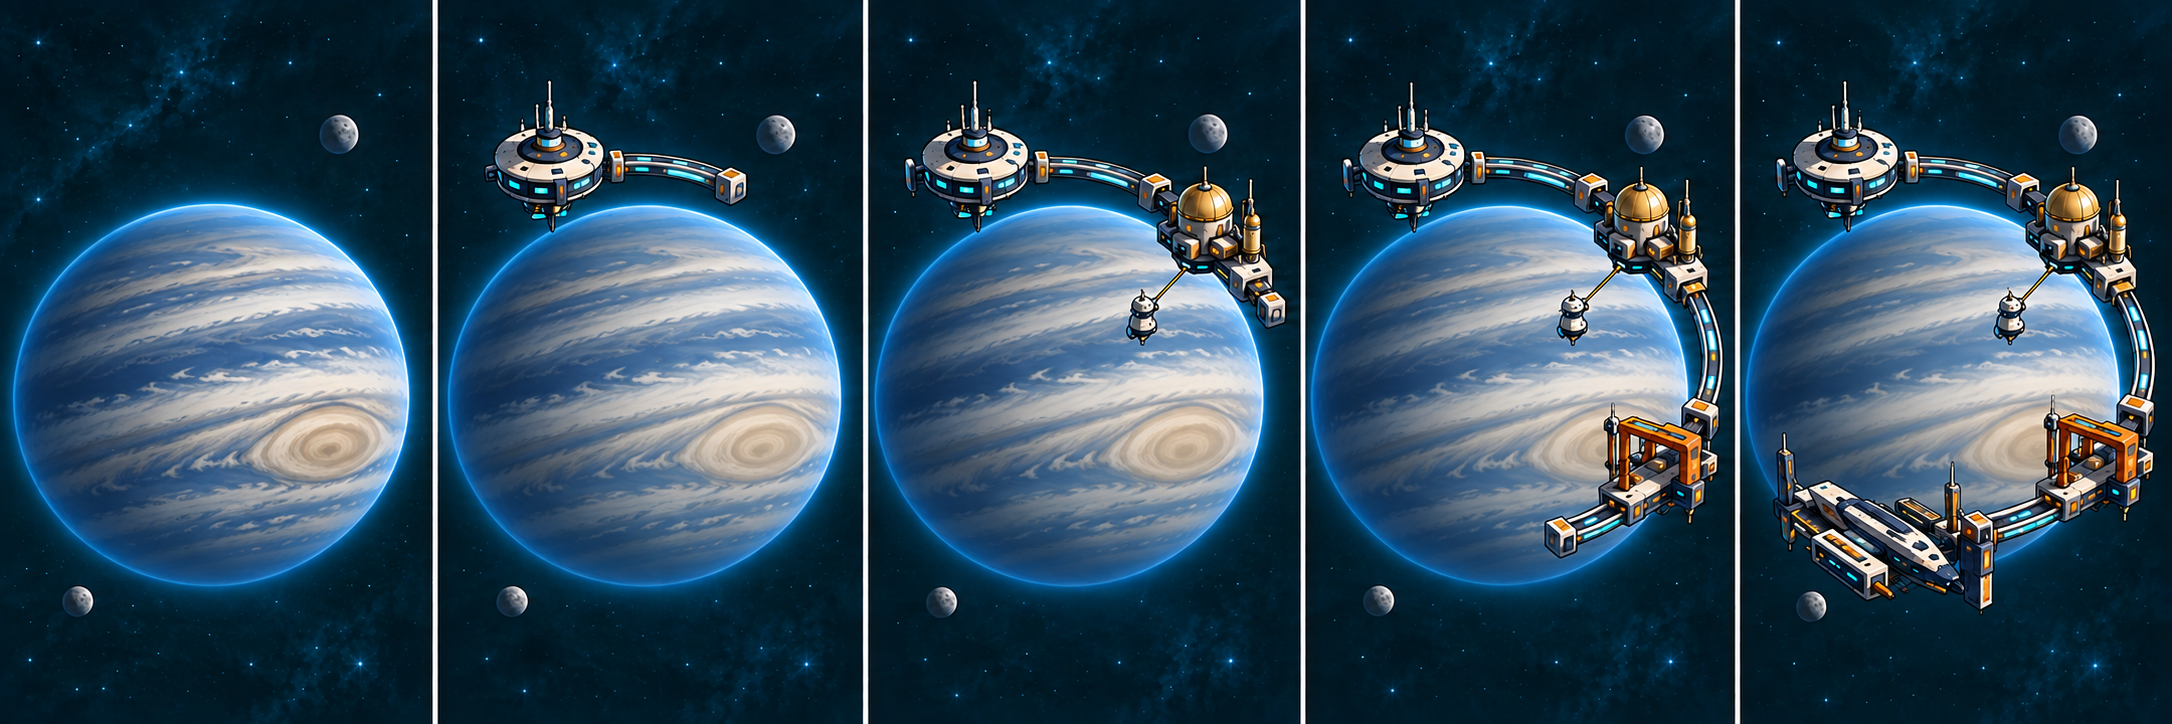
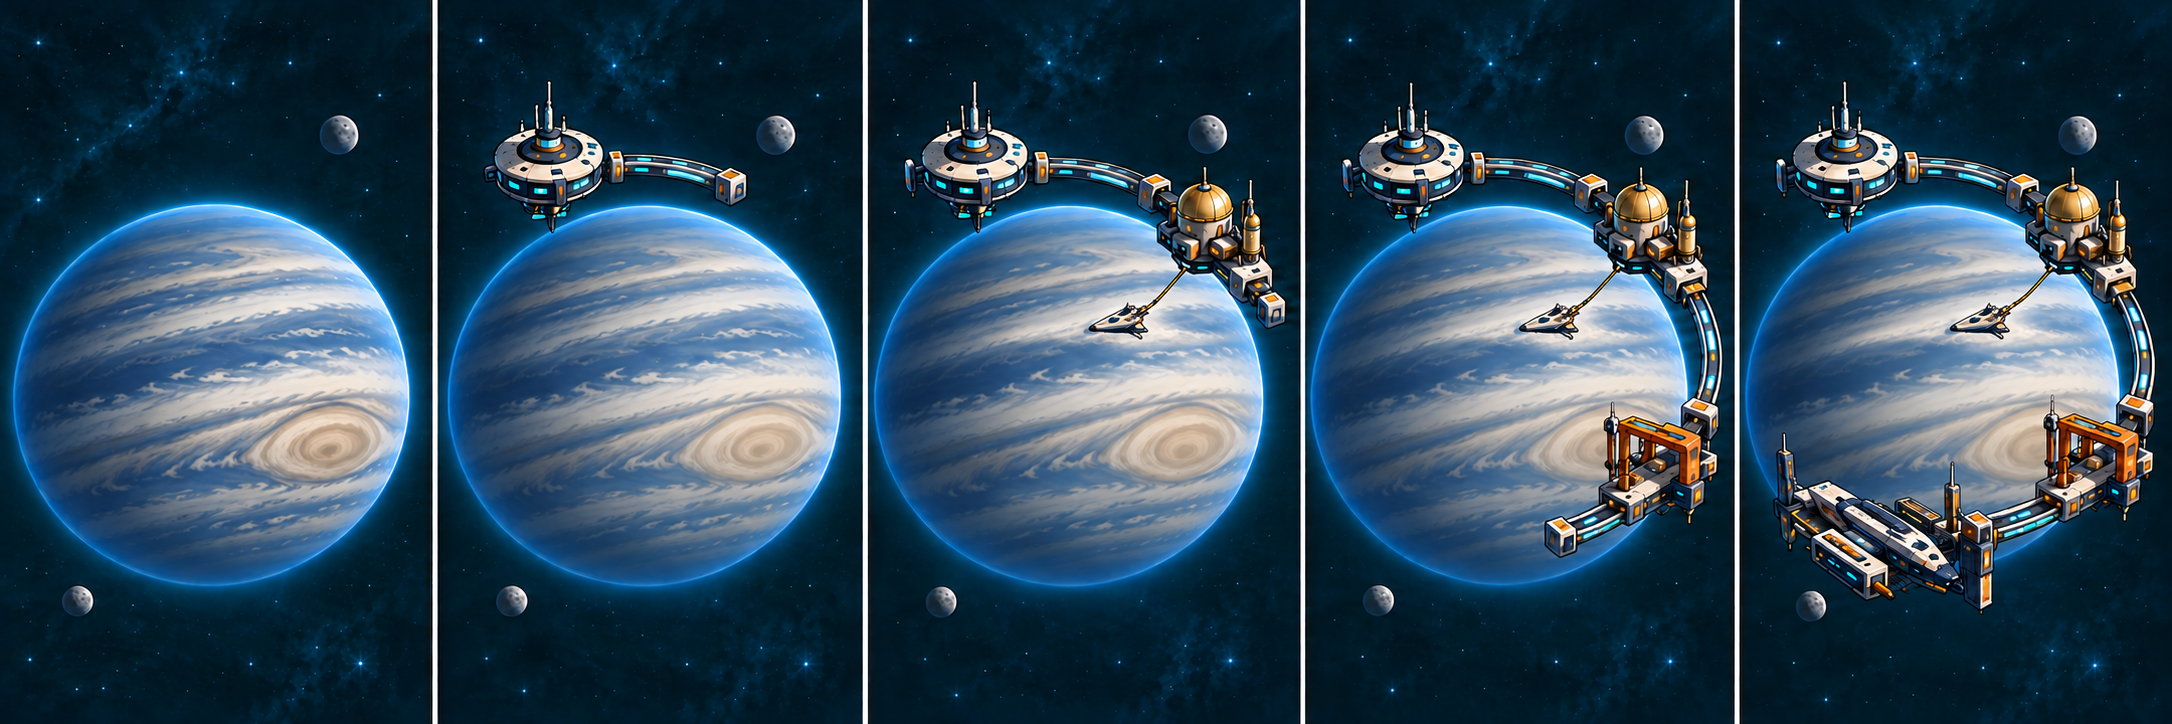
docs: clarify gas skimmer and stellar magnetic collection

Changed region(s): [[0.6169, 0.1519, 1.0, 0.8204], [0.401, 0.1519, 0.5861, 0.4862], [0.2159, 0.1519, 0.3393, 0.3039]]

diff --git a/space-battleship/docs/game-design/art/modules/planet-six/scheme-b/README.md b/space-battleship/docs/game-design/art/modules/planet-six/scheme-b/README.md
@@ -4,9 +4,9 @@
 
 这是供用户比较的新**概念候选**，不是替代既有 A 方案的批准、游戏运行画面或新玩法规则。三类沿用同一套象牙／深青／青色能源的卡通化主体：空间站带首段短弧，精炼厂自带第二段及采集端，工坊自带第三段龙门平台，船坞自带末段泊位。五格从左到右为裸天体、仅站、站＋精炼、前三座、四座完整态；同一格内没有未建段。玩家仍可按现行独立施工与领取产生其他建成组合，图中次序只是可行示例，不是强制前置。
 
-轨道带自身维持外部轨道姿态，不随天体表面自转。固态接点为精炼厂带来的可收回探针／自由接驳；气态接点换成悬在云顶的采样器；恒星接点需隔热磁采与显著的光球间距。三类均不以永久硬管焊住旋转表面。轨道设施可随视角与自转遮挡，不保证所有建筑始终可见，也不引入拖动观察。这里的“深入采集”是视觉关系，不代表新增产出或效率。白矮星、红巨星、脉冲星采用此主体时的距离、屏蔽和避束流接点尚未出图，不能直接套用本图。
+轨道带自身维持外部轨道姿态，不随天体表面自转。固态接点为精炼厂带来的可收回探针／自由接驳；气态接点换成精炼厂自带的云顶掠云艇，03 至 05 格持续可见；恒星接点为安全外侧的隔热磁采盘，琥珀色稀疏能流自日冕越过空隙入盘，青色回流沿短臂进入精炼厂。三类均不以永久硬管焊住旋转表面。轨道设施可随视角与自转遮挡，不保证所有建筑始终可见，也不引入拖动观察。这里的“深入采集”是视觉关系，不代表新增产出或效率。白矮星、红巨星、脉冲星采用此主体时的距离、屏蔽和避束流接点尚未出图，不能直接套用本图。
 
-**审图边界。** [完整态对照](three-worlds-complete.png)最直接检验共用主体和三种采集端；三张五态图检验每座带来一段。完整态对照中的恒星采集端视觉上过于贴近光球，以[恒星五态修正版](star-stages.png)的外移位置为此轮较准的空间意向。图像编辑并未逐像素锁住天体纹理或工程件外形，不能据此认定多相位自转、实际模块比例、热防护或四设施状态组合均可运行。恒星五态中磁采盘只示意处于光球外，磁力路径没有绘成实机可读的工作特效。现有图仍偏细，在 808×900 模块尺寸需以后续资产化再做减法。
+**审图边界。** [完整态对照](three-worlds-complete.png)最直接检验共用主体和三种采集端；三张五态图检验每座带来一段。完整态对照中的恒星采集端视觉上过于贴近光球，以[恒星五态修正版](star-stages.png)的外移位置和非接触能流为此轮较准的空间意向。图像编辑并未逐像素锁住天体纹理或工程件外形，不能据此认定多相位自转、实际模块比例、热防护或四设施状态组合均可运行。能流只说明视觉上的采集方向，不新增采集资源或产出规则。现有图仍偏细，在 808×900 模块尺寸需以后续资产化再做减法。
 
 ## 图源与实际提示词
 
@@ -16,8 +16,8 @@
 |---|---|---|
[6 lines of base64/hex data omitted]
 
 三类完整态提示词：
 
@@ -38,3 +38,15 @@
 恒星最终局部编辑提示词：
 
 > Correct only the magnetic collection endpoint in panels THREE, FOUR and FIVE of the attached five-panel stellar storyboard. Keep all five panels, the sun disk, station, gold-dome refinery, orange workshop, shipyard, ring arcs, and camera unchanged. The small white-and-blue circular intake disc currently overlaps the bright stellar photosphere at upper-right; move each disc UP AND RIGHT so it floats entirely in DARK SPACE OUTSIDE the orange corona with a VISIBLE GAP between disc and star, connected only by its short arm to the gold-dome refinery. It must not touch the plasma surface. Nothing else changes. Maintain cumulative staged construction, no UI or text.
+
+## 气态与恒星采集接点复审修正
+
[1 lines of base64/hex data omitted]
+
+> Edit the attached FIVE-PANEL gas-giant orbital-belt construction storyboard. Preserve all five panels, identical gas giant size/cloud/storm, station, gold-domed refinery, orange gantry workshop, shipyard, ring segments, camera and style. Focus ONLY on the refinery collection endpoint in panels THREE, FOUR and FIVE. Currently a tiny cylindrical pod hangs in EMPTY SPACE from a short diagonal rod, too far above the cloud; replace it in ALL THREE panels with the SAME clearly recognizable slim ivory-and-navy ATMOSPHERIC SKIMMER craft at the uppermost pale cloud layer, like the gas-giant panel in the SECOND attached complete-layout comparison. A flexible retractable tether or short dotted shuttle path goes from refinery to skimmer but ENDS FREE at skimmer, no rigid pipe welded into cloud. The skimmer is a visual part of the refinery and appears exactly when the refinery is built in panel three, remains the same in panels four and five. There is NO skimmer, tether or unbuilt support in bare panel one or station-only panel two. Keep a readable gap between orbital refinery and gas giant cloud top; do not place buildings on solid land. No words or UI.
+
[1 lines of base64/hex data omitted]
+
+> Edit the attached FIVE-PANEL main-sequence STAR cumulative orbital-belt storyboard. Preserve every panel, same yellow star, station, gold-domed refinery, separate white collector disc in DARK SPACE ABOVE-RIGHT of the star in panels THREE to FIVE, orange workshop, shipyard, arcs, camera and palette. In panels THREE, FOUR and FIVE ONLY, show the refinery's working relationship to the star by adding a SHORT, THIN, LUMINOUS AMBER MAGNETIC FLUX TRACE made of sparse curved wisps or small particles FROM the star's upper-right CORONA, ACROSS THE OPEN DARK STANDOFF GAP, INTO the EXISTING white collector disc, then a faint thin cyan return glow along its existing short arm TO the gold-domed refinery. The trace is ENERGY IN SPACE, NOT a solid rod, pipe, crane, needle or structure. Maintain a CLEAR DARK GAP between the collector disc and photosphere; neither disc nor any physical support touches star. The energy direction should read corona → disc → refinery, with restrained brightness so hardware remains legible. No flux, disc or refinery in bare panel one or station-only panel two. Keep same station, refinery and collector visibly unchanged in panels three to five, and no unbuilt ring segment early. No text or UI.
+
+两图均为 `image_gen.imagegen` 编辑，`transparent_background=false`；作者目视确认 03 至 05 格的接点随精炼厂保留，01／02 没有提前出现。能流与掠云艇仍为静态意向，不代表完成运行动画或规则验证。
